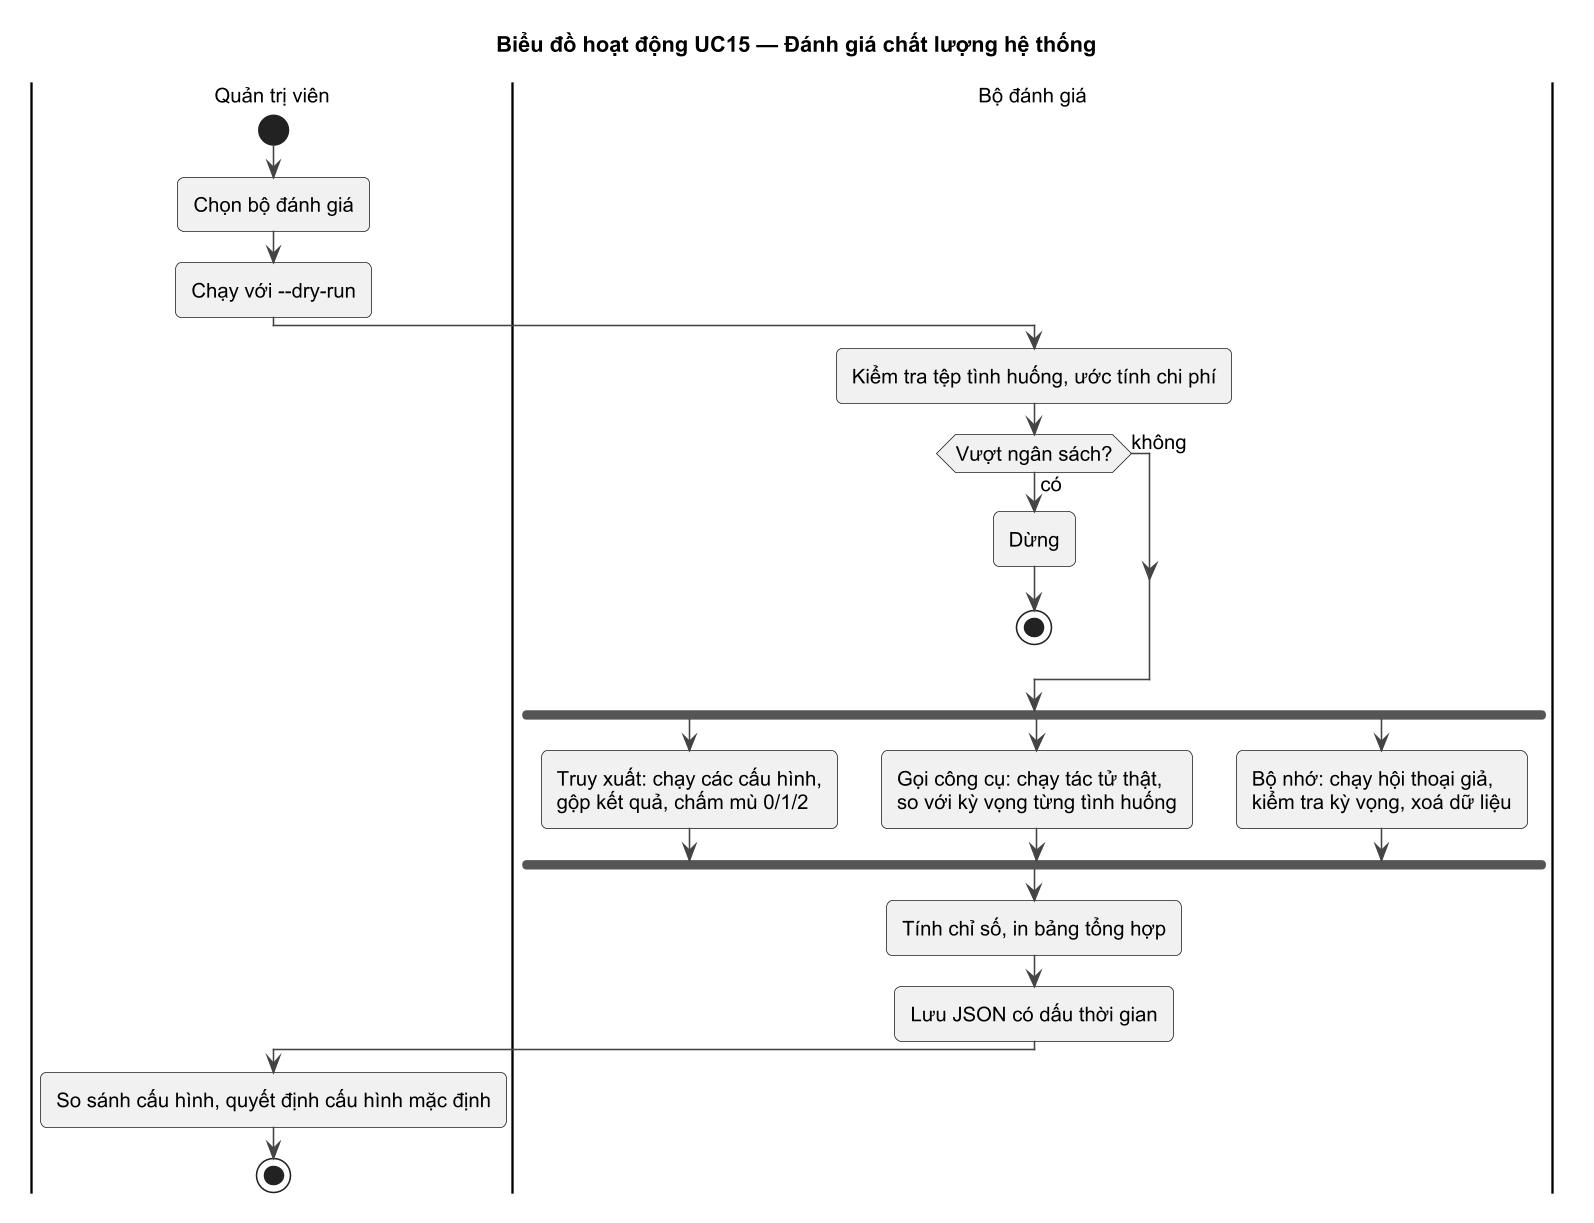
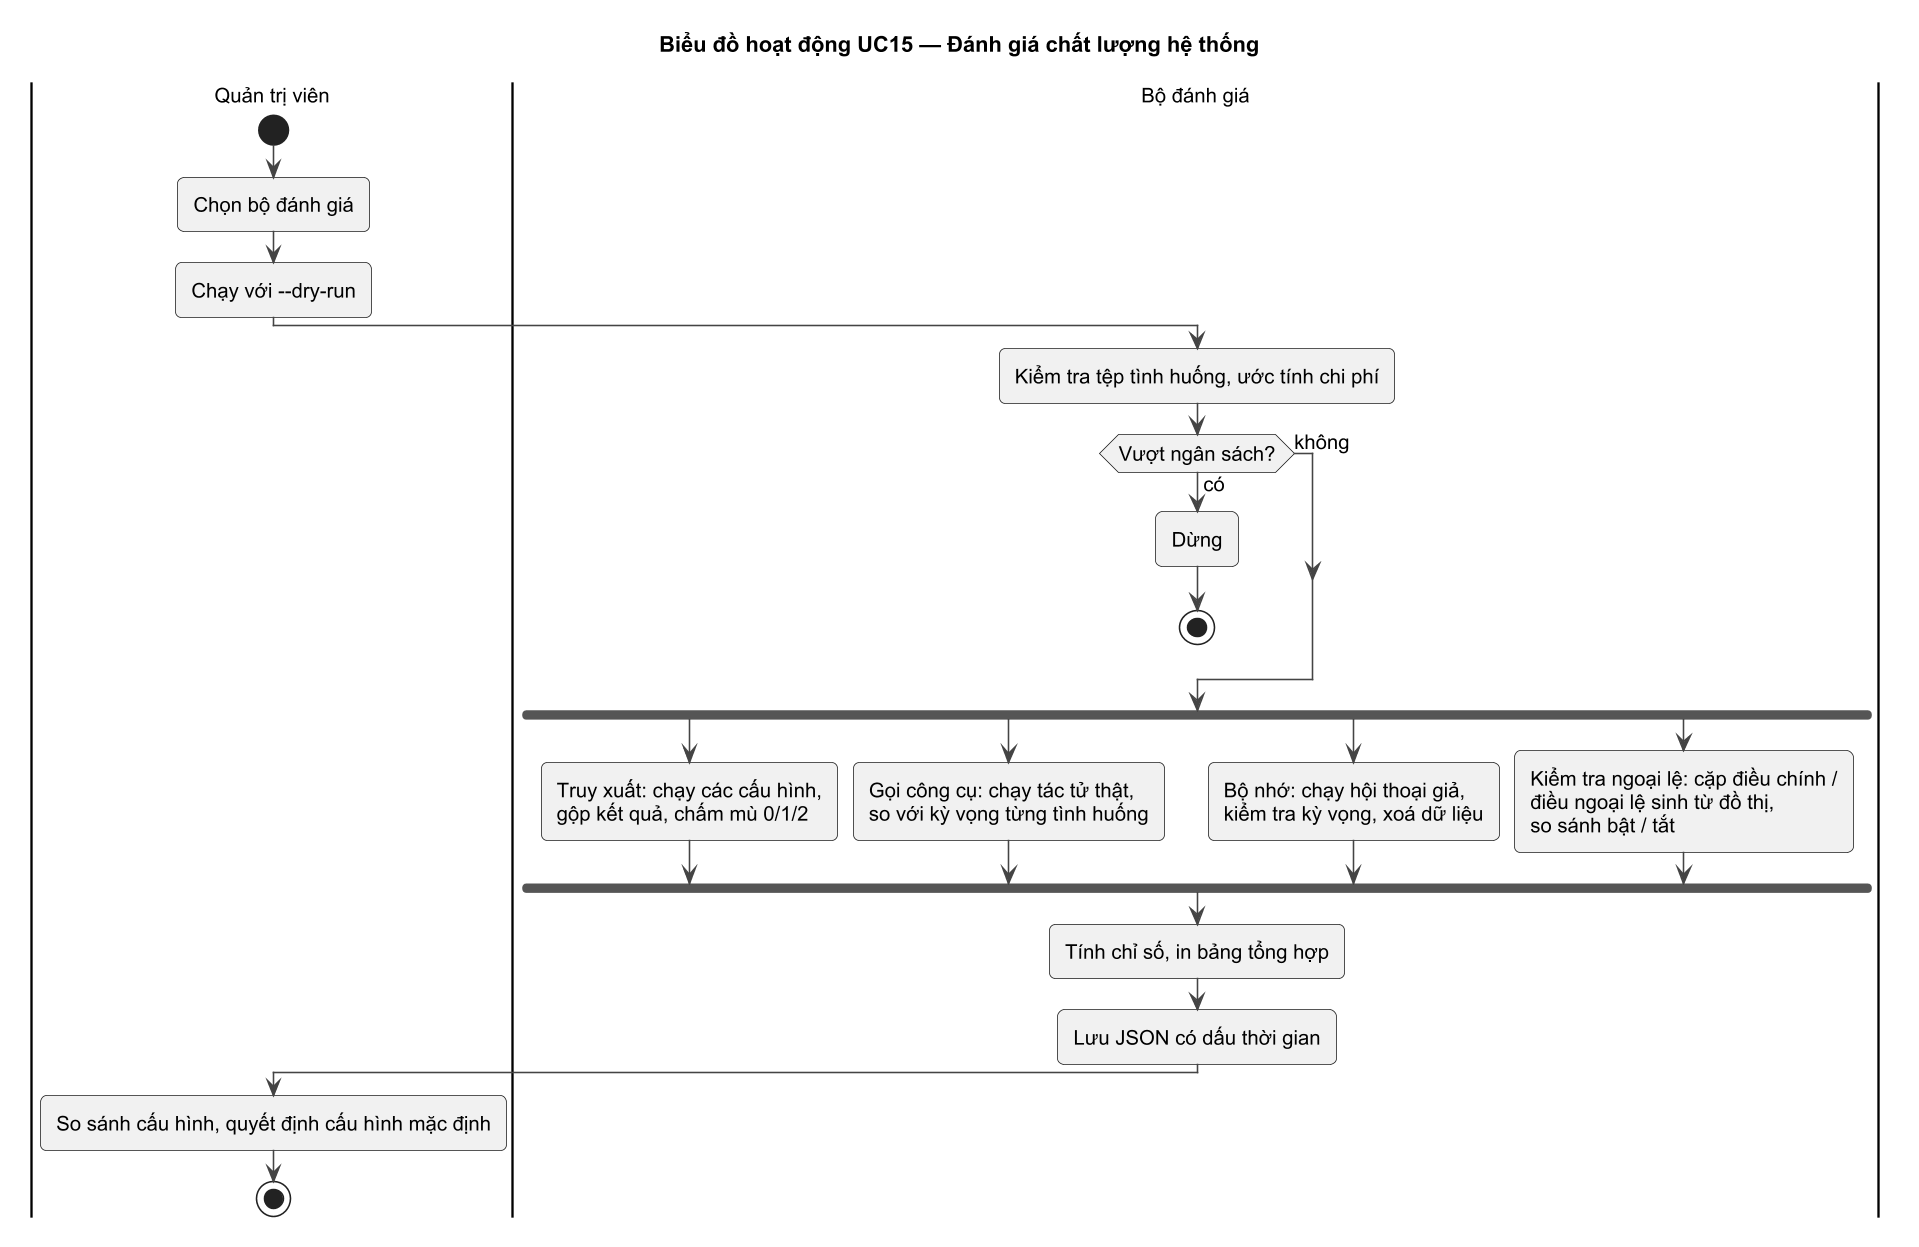
thesis(ch2): đặc tả UC01/UC13/UC14/UC15 khớp hệ thống hiện tại
- UC01: kiểm tra web sau vòng gọi công cụ đầu tiên, trước khi viết câu trả lời
- UC13: bỏ chia đoạn có ngữ cảnh / collection thứ hai; BM25 tách điều dài theo khoản
- UC14: nút khoản, văn bản, phân tích dẫn chiếu, --refresh-derived, đồng bộ khi duyệt
- UC15: thêm bộ đánh giá kiểm tra ngoại lệ (sơ đồ UC15_UC, UC15_ACT render lại)

Changed region(s): [[0.0, 0.0621, 0.9837, 0.9943], [0.3074, 0.0311, 0.707, 0.0932]]

diff --git a/SOICT_DATN_NguyenDucHai_20241592E_GVHD_VuVanThieu/Chuong/2_Khao_sat.tex b/SOICT_DATN_NguyenDucHai_20241592E_GVHD_VuVanThieu/Chuong/2_Khao_sat.tex
@@ -112,7 +112,7 @@ Bảng \ref{tab:uc01} đặc tả use case UC01.
 2c. Người dùng có cảm xúc tiêu cực mạnh: đề xuất chuyển cán bộ xử lý. \newline
 3a. Câu hỏi ngoài phạm vi pháp luật: thông báo phạm vi hỗ trợ, kết thúc. \newline
 5a. Bộ đệm có câu trả lời với độ tương đồng từ 0,97 trở lên: trả câu trả lời đã lưu, sang bước 8. \newline
-6a. Câu hỏi về mức phạt, mức tiền hoặc kết quả Pháp Điển yếu: tác tử bị buộc gọi tìm kiếm web trước khi trả lời. \newline
+6a. Câu hỏi về mức phạt, mức tiền hoặc kết quả Pháp Điển yếu: sau vòng gọi công cụ đầu tiên, tác tử bị buộc gọi tìm kiếm web trước khi viết câu trả lời. \newline
 7a. Độ tin cậy thấp: hiển thị cảnh báo đề nghị đối chiếu văn bản chính thức. \\ \hline
 \textbf{Hậu điều kiện} & Câu trả lời và các điều luật căn cứ được lưu trong hội thoại; bộ nhớ dài hạn có thể được bổ sung hoặc cập nhật \\ \hline
 \end{tabular}
@@ -603,27 +603,27 @@ Bảng \ref{tab:uc13} đặc tả use case UC13.
 \textbf{Tiền điều kiện} & Đã hoàn thành UC12; Milvus đang chạy \\ \hline
 \textbf{Luồng sự kiện chính} &
 1. Quản trị viên chạy công cụ nhúng tên điều; công cụ tạo collection và nhúng theo lô. \newline
-2. Quản trị viên chạy công cụ chia đoạn có ngữ cảnh (tuỳ chọn \texttt{--dry-run} trước để ước tính chi phí). \newline
-3. Chỉ mục BM25 được xây dựng tự động ở lần khởi động đầu tiên của máy chủ dịch vụ. \\ \hline
+2. Chỉ mục BM25 được xây dựng tự động ở lần khởi động đầu tiên của máy chủ dịch vụ; điều dài hơn 6.000 ký tự được tách thành nhiều tài liệu theo nhóm khoản. \\ \hline
 \textbf{Luồng sự kiện phát sinh} &
 1a. Một lô nhúng lỗi: nhúng từng bản ghi, ghi bản ghi lỗi vào \texttt{embed\_errors.csv}. \newline
-1b. Một trong hai công cụ bị gián đoạn: chạy lại với \texttt{--resume}, bỏ qua bản ghi đã có. \\ \hline
-\textbf{Hậu điều kiện} & Hai collection vector và chỉ mục BM25 sẵn sàng cho tìm kiếm lai \\ \hline
+1b. Công cụ bị gián đoạn: chạy lại với \texttt{--resume}, bỏ qua bản ghi đã có. \newline
+2a. Bộ đệm BM25 trên đĩa khác phiên bản cách dựng chỉ mục: xây lại chỉ mục. \\ \hline
+\textbf{Hậu điều kiện} & Collection vector tên điều và chỉ mục BM25 sẵn sàng cho tìm kiếm lai \\ \hline
 \end{tabular}
 \end{table}
 
 \subsubsection{Biểu đồ use case}
-Hình \ref{fig:uc13_uc} cho thấy ba chức năng lập chỉ mục (vector tên điều, đoạn có ngữ cảnh, BM25) và các chức năng mở rộng ước tính chi phí, chạy tiếp, ghi bản ghi lỗi.
+Hình \ref{fig:uc13_uc} cho thấy hai chức năng lập chỉ mục (vector tên điều, BM25), việc tách điều dài theo nhóm khoản khi xây BM25 và các chức năng mở rộng chạy tiếp, ghi bản ghi lỗi.
 
 \hinh{Hinhve/UC13_UC.png}{0.8\linewidth}{Biểu đồ use case UC13 Lập chỉ mục vector và BM25}{fig:uc13_uc}
 
 \subsubsection{Biểu đồ hoạt động}
-Hình \ref{fig:uc13_act} trình bày cách xử lý lỗi theo lô khi nhúng tên điều và trình tự ước tính chi phí trước khi chia đoạn.
+Hình \ref{fig:uc13_act} trình bày cách xử lý lỗi theo lô khi nhúng tên điều và cách máy chủ nạp hoặc xây lại chỉ mục BM25 khi khởi động.
 
 \hinh{Hinhve/UC13_ACT.png}{0.8\linewidth}{Biểu đồ hoạt động UC13 Lập chỉ mục vector và BM25}{fig:uc13_act}
 
 \subsubsection{Biểu đồ tuần tự}
-Hình \ref{fig:uc13_seq} cho thấy luồng dữ liệu từ MySQL qua mô hình nhúng vào hai collection Milvus và việc xây chỉ mục BM25 khi khởi động máy chủ.
+Hình \ref{fig:uc13_seq} cho thấy luồng dữ liệu từ MySQL qua mô hình nhúng vào collection Milvus và việc xây chỉ mục BM25 khi khởi động máy chủ.
 
 \hinh{Hinhve/UC13_SEQ.png}{0.95\linewidth}{Biểu đồ tuần tự UC13 Lập chỉ mục vector và BM25}{fig:uc13_seq}
 
@@ -643,26 +643,29 @@ Bảng \ref{tab:uc14} đặc tả use case UC14.
 \textbf{Tiền điều kiện} & Đã hoàn thành UC12; Neo4j đang chạy \\ \hline
 \textbf{Luồng sự kiện chính} &
 1. Quản trị viên chạy công cụ \texttt{build\_graph.py}. \newline
-2. Công cụ tạo ràng buộc duy nhất, các nút và cạnh phân cấp. \newline
-3. Công cụ tạo cạnh liên quan hai chiều và cạnh tham chiếu. \\ \hline
+2. Công cụ tạo ràng buộc duy nhất, các nút chủ đề, đề mục, chương, điều, khoản và cạnh phân cấp. \newline
+3. Công cụ phân tích chú thích văn bản gốc để tạo nút văn bản và quan hệ sửa đổi. \newline
+4. Công cụ tạo cạnh liên quan hai chiều và phân tích dẫn chiếu trong nội dung điều để tạo cạnh tham chiếu. \\ \hline
 \textbf{Luồng sự kiện phát sinh} &
-2a. Neo4j lỗi tệp nhật ký giao dịch: xoá dữ liệu Neo4j, khởi động lại và chạy lại công cụ; trong thời gian này bộ truy xuất dùng bảng quan hệ MySQL. \\ \hline
-\textbf{Hậu điều kiện} & Công cụ \texttt{graph\_traverse} của tác tử dùng được đồ thị Neo4j \\ \hline
+2a. Neo4j lỗi tệp nhật ký giao dịch: xoá dữ liệu Neo4j, khởi động lại và chạy lại công cụ; trong thời gian này bộ truy xuất dùng bảng quan hệ MySQL. \newline
+4a. Chỉ đổi cách phân tích dẫn chiếu hoặc nhận diện ngoại lệ: chạy \texttt{--refresh-derived} để tính lại cờ ngoại lệ và cạnh tham chiếu mà không ghi lại toàn bộ nút. \newline
+4b. Quản trị viên duyệt văn bản mới (UC18): đồ thị được đồng bộ từng phần cho các điều thay đổi. \\ \hline
+\textbf{Hậu điều kiện} & Tác tử dùng được đồ thị Neo4j cho \texttt{graph\_traverse}, kèm điều được dẫn chiếu và kiểm tra ngoại lệ \\ \hline
 \end{tabular}
 \end{table}
 
 \subsubsection{Biểu đồ use case}
-Hình \ref{fig:uc14_uc} cho thấy các bước xây dựng đồ thị và chức năng dự phòng bằng bảng quan hệ MySQL khi đồ thị chưa sẵn sàng.
+Hình \ref{fig:uc14_uc} cho thấy các bước xây dựng đồ thị, việc đồng bộ từng phần khi duyệt văn bản và chức năng dự phòng bằng bảng quan hệ MySQL khi đồ thị chưa sẵn sàng.
 
 \hinh{Hinhve/UC14_UC.png}{0.8\linewidth}{Biểu đồ use case UC14 Xây dựng đồ thị tri thức}{fig:uc14_uc}
 
 \subsubsection{Biểu đồ hoạt động}
-Hình \ref{fig:uc14_act} trình bày trình tự tạo ràng buộc, nút, cạnh và cách bộ truy xuất chọn nguồn khi mở rộng theo đồ thị.
+Hình \ref{fig:uc14_act} trình bày trình tự tạo ràng buộc, nút, cạnh và cách bộ truy xuất chọn nguồn khi dùng đồ thị.
 
 \hinh{Hinhve/UC14_ACT.png}{0.8\linewidth}{Biểu đồ hoạt động UC14 Xây dựng đồ thị tri thức}{fig:uc14_act}
 
 \subsubsection{Biểu đồ tuần tự}
-Hình \ref{fig:uc14_seq} cho thấy việc ghi theo lô 500 bản ghi bằng \texttt{UNWIND} và \texttt{MERGE} của Cypher.
+Hình \ref{fig:uc14_seq} cho thấy việc ghi theo lô bằng \texttt{UNWIND} và \texttt{MERGE} của Cypher, cùng các bước phân tích chú thích văn bản gốc, tách khoản và phân tích dẫn chiếu của mô-đun \texttt{legal\_graph}.
 
 \hinh{Hinhve/UC14_SEQ.png}{0.95\linewidth}{Biểu đồ tuần tự UC14 Xây dựng đồ thị tri thức}{fig:uc14_seq}
 
@@ -681,7 +684,7 @@ Bảng \ref{tab:uc15} đặc tả use case UC15.
 \textbf{Tác nhân} & Quản trị viên; hệ thống ngoài: OpenAI, mô hình chấm điểm \\ \hline
 \textbf{Tiền điều kiện} & Kho dữ liệu và máy chủ dịch vụ sẵn sàng; có khoá API \\ \hline
 \textbf{Luồng sự kiện chính} &
-1. Quản trị viên chọn bộ đánh giá: truy xuất, gọi công cụ hoặc bộ nhớ. \newline
+1. Quản trị viên chọn bộ đánh giá: truy xuất, gọi công cụ, bộ nhớ hoặc kiểm tra ngoại lệ. \newline
 2. Quản trị viên chạy với \texttt{--dry-run} để kiểm tra tệp tình huống và ước tính chi phí. \newline
 3. Bộ đánh giá chạy các cấu hình hoặc tình huống, chấm điểm và in bảng tổng hợp. \newline
 4. Kết quả chi tiết được lưu dạng JSON có dấu thời gian trong \texttt{evaluation/results}. \\ \hline
@@ -693,17 +696,17 @@ Bảng \ref{tab:uc15} đặc tả use case UC15.
 \end{table}
 
 \subsubsection{Biểu đồ use case}
-Hình \ref{fig:uc15_uc} cho thấy ba bộ đánh giá cùng các chức năng mở rộng kiểm tra trước, dùng kết quả chấm đã lưu đệm và lưu kết quả.
+Hình \ref{fig:uc15_uc} cho thấy bốn bộ đánh giá cùng các chức năng mở rộng kiểm tra trước, dùng kết quả chấm đã lưu đệm và lưu kết quả.
 
 \hinh{Hinhve/UC15_UC.png}{0.8\linewidth}{Biểu đồ use case UC15 Đánh giá chất lượng hệ thống}{fig:uc15_uc}
 
 \subsubsection{Biểu đồ hoạt động}
-Hình \ref{fig:uc15_act} trình bày việc kiểm tra ngân sách trước khi chạy và ba bộ đánh giá có thể chạy độc lập.
+Hình \ref{fig:uc15_act} trình bày việc kiểm tra ngân sách trước khi chạy và bốn bộ đánh giá có thể chạy độc lập.
 
 \hinh{Hinhve/UC15_ACT.png}{0.8\linewidth}{Biểu đồ hoạt động UC15 Đánh giá chất lượng hệ thống}{fig:uc15_act}
 
 \subsubsection{Biểu đồ tuần tự}
-Hình \ref{fig:uc15_seq} cho thấy luồng của bộ đánh giá truy xuất, đại diện cho ba bộ đánh giá: truy xuất, gộp, tra bộ đệm, chấm mù rồi tính chỉ số.
+Hình \ref{fig:uc15_seq} cho thấy luồng của bộ đánh giá truy xuất, đại diện cho các bộ đánh giá: truy xuất, gộp, tra bộ đệm, chấm mù rồi tính chỉ số.
 
 \hinh{Hinhve/UC15_SEQ.png}{0.95\linewidth}{Biểu đồ tuần tự UC15 Đánh giá chất lượng hệ thống}{fig:uc15_seq}
 
